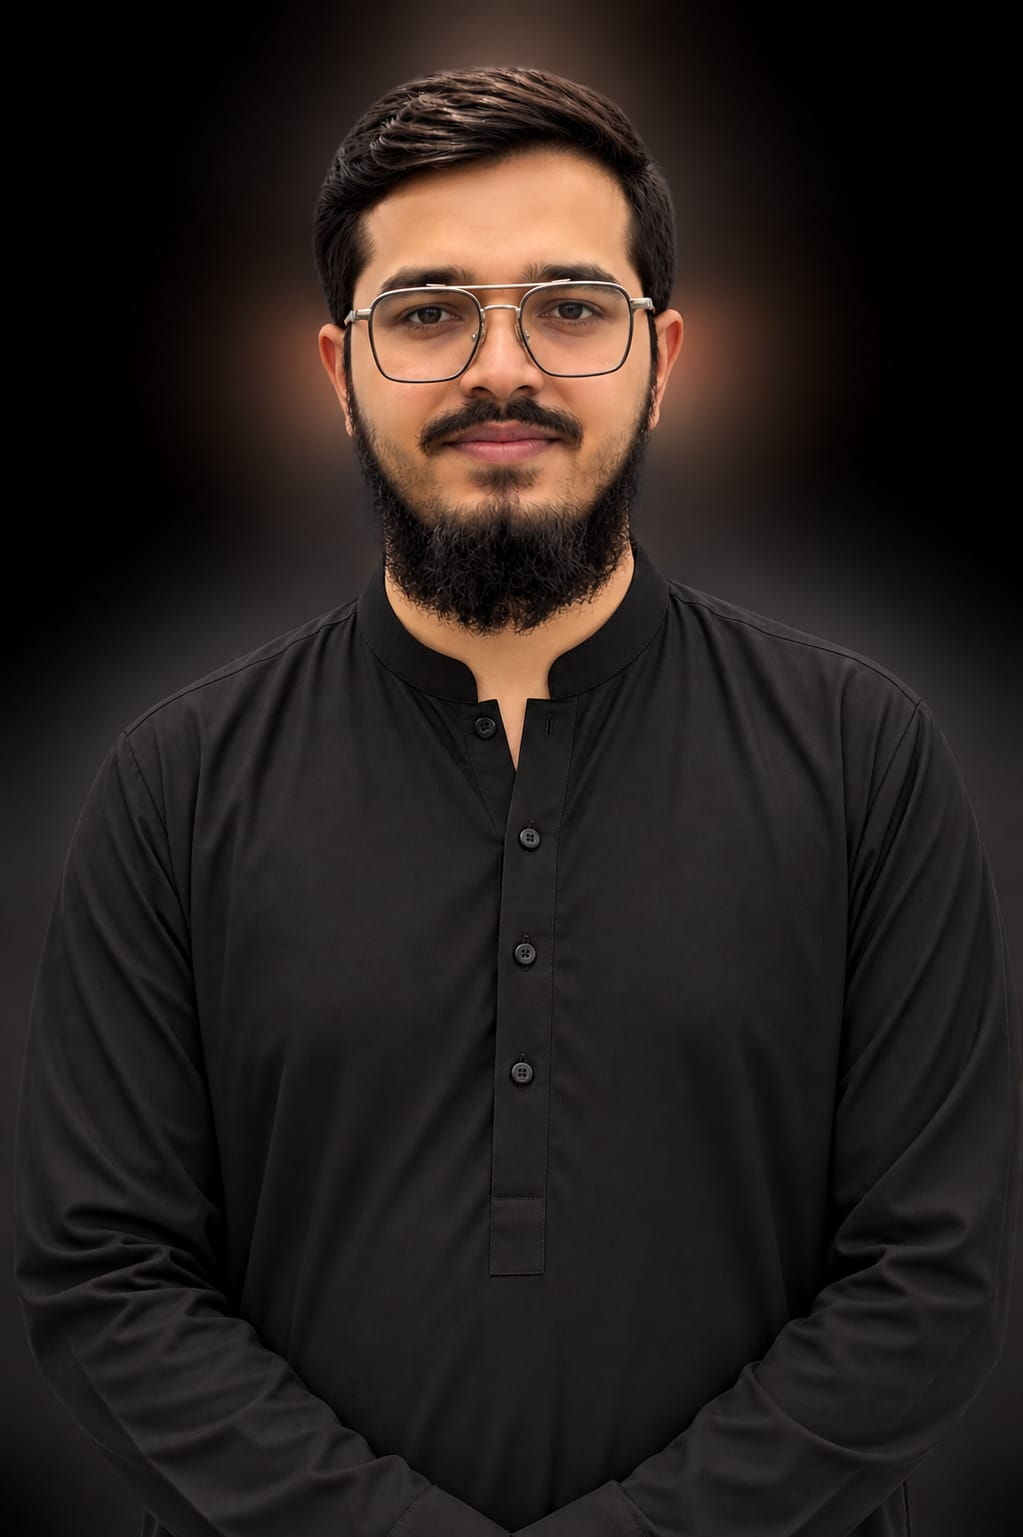
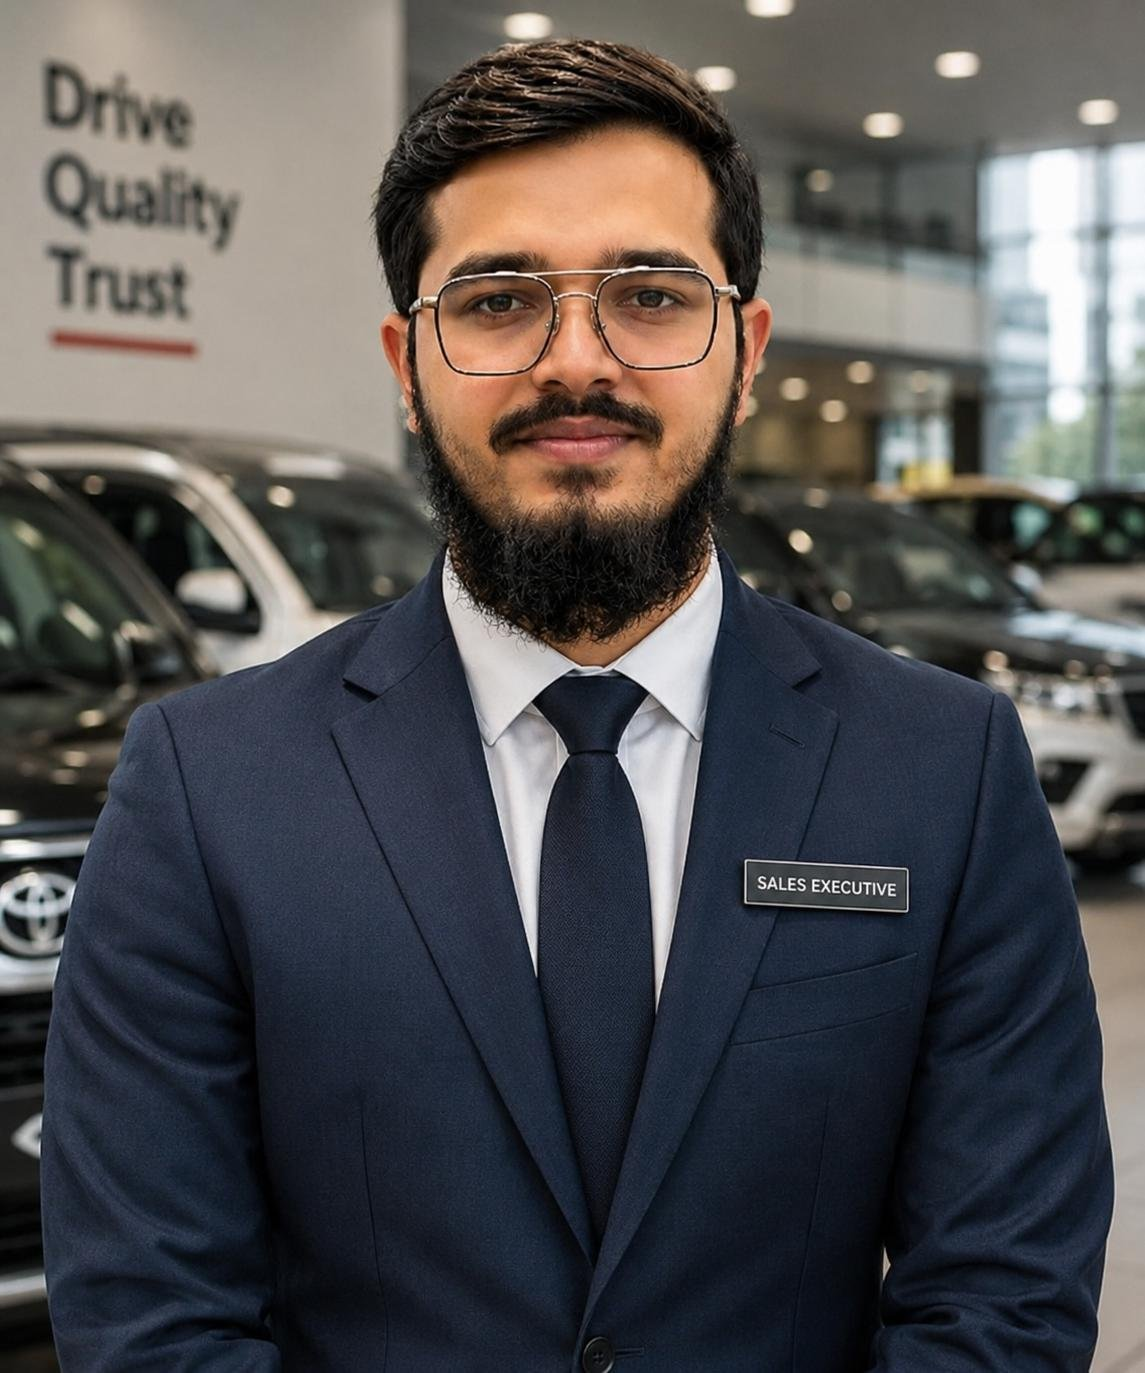
Reorder About before Cars, add vehicle carousel, WhatsApp branding, and polish
- About section now uses the new professional headshot photo
- Official WhatsApp glyph replaces the generic icon on the floating
  button, Contact panel, and each vehicle card's enquiry button
- About now appears before the Featured Vehicles section (nav updated
  to match)
- Featured Vehicles is now a swipeable/autoplaying carousel with arrow
  and dot navigation instead of a static grid
- Stats section background reworked with layered gold/steel glows and
  a top divider for better separation from neighboring sections

diff --git a/src/components/Vehicles.jsx b/src/components/Vehicles.jsx
@@ -1,23 +1,157 @@
+import { useEffect, useState } from "react";
+import { motion, useReducedMotion } from "framer-motion";
+import { ChevronLeft, ChevronRight } from "lucide-react";
 import SectionTitle from "./SectionTitle";
 import VehicleCard from "./VehicleCard";
 import { vehicles } from "../data/vehicles";
 
+function useItemsPerView() {
+  const [items, setItems] = useState(1);
+
+  useEffect(() => {
+    const mqLg = window.matchMedia("(min-width: 1024px)");
+    const mqSm = window.matchMedia("(min-width: 640px)");
+    const update = () => setItems(mqLg.matches ? 3 : mqSm.matches ? 2 : 1);
+    update();
+    mqLg.addEventListener("change", update);
+    mqSm.addEventListener("change", update);
+    return () => {
+      mqLg.removeEventListener("change", update);
+      mqSm.removeEventListener("change", update);
+    };
+  }, []);
+
+  return items;
+}
+
 export default function Vehicles() {
+  const itemsPerView = useItemsPerView();
+  const prefersReducedMotion = useReducedMotion();
+  const maxIndex = Math.max(0, vehicles.length - itemsPerView);
+  const [index, setIndex] = useState(0);
+  const [paused, setPaused] = useState(false);
+
+  useEffect(() => {
+    setIndex((i) => Math.min(i, maxIndex));
+  }, [maxIndex]);
+
+  useEffect(() => {
+    if (prefersReducedMotion || paused || maxIndex === 0) return;
+    const id = setInterval(() => {
+      setIndex((i) => (i >= maxIndex ? 0 : i + 1));
+    }, 5000);
+    return () => clearInterval(id);
+  }, [paused, maxIndex, prefersReducedMotion]);
+
+  const go = (dir) => {
+    setIndex((i) => {
+      const next = i + dir;
+      if (next < 0) return maxIndex;
+      if (next > maxIndex) return 0;
+      return next;
+    });
+  };
+
   return (
     <section id="cars" className="scroll-mt-20 bg-ink py-24 sm:py-32">
       <div className="section-container">
-        <SectionTitle
-          eyebrow="Our Inventory"
-          title="Featured Vehicles"
-          subtitle="A curated selection of our current inventory — carefully inspected and ready for their next owner."
-          light
-        />
-
-        <div className="grid grid-cols-1 gap-6 sm:grid-cols-2 lg:grid-cols-3">
-          {vehicles.map((vehicle, i) => (
-            <VehicleCard key={vehicle.id} vehicle={vehicle} index={i} />
-          ))}
+        <div className="flex flex-col gap-6 sm:flex-row sm:items-end sm:justify-between">
+          <SectionTitle
+            eyebrow="Our Inventory"
+            title="Featured Vehicles"
+            subtitle="A curated selection of our current inventory — carefully inspected and ready for their next owner."
+            light
+          />
+          {maxIndex > 0 && (
+            <div className="mb-2 hidden shrink-0 items-center gap-3 sm:flex">
+              <button
+                type="button"
+                onClick={() => go(-1)}
+                aria-label="Previous vehicle"
+                className="flex h-11 w-11 items-center justify-center rounded-full border border-white/15 text-offwhite transition-colors duration-300 hover:border-accent-light hover:text-accent-light"
+              >
+                <ChevronLeft size={20} aria-hidden="true" />
+              </button>
+              <button
+                type="button"
+                onClick={() => go(1)}
+                aria-label="Next vehicle"
+                className="flex h-11 w-11 items-center justify-center rounded-full border border-white/15 text-offwhite transition-colors duration-300 hover:border-accent-light hover:text-accent-light"
+              >
+                <ChevronRight size={20} aria-hidden="true" />
+              </button>
+            </div>
+          )}
         </div>
+
+        <div
+          className="relative mt-10 -mx-3 overflow-hidden"
+          onMouseEnter={() => setPaused(true)}
+          onMouseLeave={() => setPaused(false)}
+        >
+          <motion.div
+            className="flex cursor-grab active:cursor-grabbing"
+            drag={maxIndex > 0 ? "x" : false}
+            dragConstraints={{ left: 0, right: 0 }}
+            dragElastic={0.08}
+            onDragEnd={(_, info) => {
+              const threshold = 60;
+              if (info.offset.x < -threshold) go(1);
+              else if (info.offset.x > threshold) go(-1);
+            }}
+            animate={{ x: `-${index * (100 / itemsPerView)}%` }}
+            transition={{ duration: 0.6, ease: [0.22, 1, 0.36, 1] }}
+          >
+            {vehicles.map((vehicle, i) => (
+              <div
+                key={vehicle.id}
+                className="shrink-0 px-3"
+                style={{ width: `${100 / itemsPerView}%` }}
+              >
+                <VehicleCard vehicle={vehicle} index={i} />
+              </div>
+            ))}
+          </motion.div>
+
+          <div className="pointer-events-none absolute inset-y-0 left-0 w-8 bg-gradient-to-r from-ink to-transparent sm:w-16" aria-hidden="true" />
+          <div className="pointer-events-none absolute inset-y-0 right-0 w-8 bg-gradient-to-l from-ink to-transparent sm:w-16" aria-hidden="true" />
+        </div>
+
+        {maxIndex > 0 && (
+          <div className="mt-8 flex items-center justify-center gap-4">
+            <button
+              type="button"
+              onClick={() => go(-1)}
+              aria-label="Previous vehicle"
+              className="flex h-10 w-10 items-center justify-center rounded-full border border-white/15 text-offwhite transition-colors duration-300 hover:border-accent-light hover:text-accent-light sm:hidden"
+            >
+              <ChevronLeft size={18} aria-hidden="true" />
+            </button>
+            <div className="flex gap-2" role="tablist" aria-label="Vehicle slides">
+              {Array.from({ length: maxIndex + 1 }).map((_, i) => (
+                <button
+                  key={i}
+                  type="button"
+                  role="tab"
+                  aria-selected={i === index}
+                  onClick={() => setIndex(i)}
+                  aria-label={`Go to slide ${i + 1}`}
+                  className={`h-2 rounded-full transition-all duration-300 ${
+                    i === index ? "w-6 bg-accent-light" : "w-2 bg-white/20 hover:bg-white/40"
+                  }`}
+                />
+              ))}
+            </div>
+            <button
+              type="button"
+              onClick={() => go(1)}
+              aria-label="Next vehicle"
+              className="flex h-10 w-10 items-center justify-center rounded-full border border-white/15 text-offwhite transition-colors duration-300 hover:border-accent-light hover:text-accent-light sm:hidden"
+            >
+              <ChevronRight size={18} aria-hidden="true" />
+            </button>
+          </div>
+        )}
       </div>
     </section>
   );

diff --git a/src/components/Stats.jsx b/src/components/Stats.jsx
@@ -37,7 +37,11 @@ export default function Stats() {
   const stats = Object.values(dealer.stats);
 
   return (
-    <section className="relative overflow-hidden bg-ink py-20 sm:py-24">
+    <section className="relative overflow-hidden bg-gradient-to-b from-charcoal via-ink to-ink py-20 sm:py-24">
+      <div
+        className="pointer-events-none absolute inset-x-0 top-0 h-px bg-gradient-to-r from-transparent via-accent/50 to-transparent"
+        aria-hidden="true"
+      />
       <div
         className="pointer-events-none absolute inset-0 opacity-[0.05]"
         style={{
@@ -48,7 +52,11 @@ export default function Stats() {
         aria-hidden="true"
       />
       <div
-        className="pointer-events-none absolute left-1/2 top-1/2 h-[420px] w-[420px] -translate-x-1/2 -translate-y-1/2 rounded-full bg-accent/10 blur-[120px]"
+        className="pointer-events-none absolute -left-24 top-1/2 h-[380px] w-[380px] -translate-y-1/2 rounded-full bg-accent/15 blur-[130px]"
+        aria-hidden="true"
+      />
+      <div
+        className="pointer-events-none absolute -right-24 top-1/2 h-[380px] w-[380px] -translate-y-1/2 rounded-full bg-steel/20 blur-[130px]"
         aria-hidden="true"
       />
 
@@ -60,11 +68,12 @@ export default function Stats() {
             whileInView={{ opacity: 1, y: 0 }}
             viewport={{ once: true, amount: 0.5 }}
             transition={{ duration: 0.6, delay: i * 0.12, ease: [0.22, 1, 0.36, 1] }}
-            className="flex flex-col items-center gap-2 pt-8 text-center first:pt-0 sm:pt-0"
+            className="flex flex-col items-center gap-3 pt-8 text-center first:pt-0 sm:pt-0"
           >
-            <span className="text-5xl font-extrabold text-offwhite sm:text-6xl">
+            <span className="text-5xl font-extrabold text-offwhite drop-shadow-[0_2px_20px_rgba(212,175,55,0.15)] sm:text-6xl">
               <Counter value={stat.value} suffix={stat.suffix} />
             </span>
+            <span className="h-px w-10 bg-accent/40" aria-hidden="true" />
             <span className="text-xs font-semibold uppercase tracking-[0.25em] text-mist sm:text-sm">
               {stat.label}
             </span>

diff --git a/src/components/WhatsAppIcon.jsx b/src/components/WhatsAppIcon.jsx
@@ -1,0 +1,8 @@
+// Official WhatsApp glyph (brand mark), used wherever we link out to WhatsApp.
+export default function WhatsAppIcon(props) {
+  return (
+    <svg viewBox="0 0 32 32" fill="currentColor" {...props}>
+      <path d="M16.04 3C9.16 3 3.58 8.58 3.58 15.46c0 2.29.62 4.44 1.7 6.29L3 29l7.44-2.24a12.4 12.4 0 0 0 5.6 1.34h.01c6.88 0 12.46-5.58 12.46-12.46C28.5 8.76 22.92 3 16.04 3Zm0 22.62h-.01a10.3 10.3 0 0 1-5.25-1.44l-.38-.22-4.42 1.33 1.36-4.31-.25-.4a10.24 10.24 0 0 1-1.58-5.52c0-5.68 4.63-10.3 10.32-10.3 2.76 0 5.35 1.07 7.3 3.02a10.24 10.24 0 0 1 3.02 7.29c0 5.68-4.63 10.3-10.31 10.3Zm5.65-7.72c-.31-.15-1.82-.9-2.1-1-.28-.1-.49-.15-.69.16-.21.31-.79 1-.97 1.2-.18.21-.36.23-.66.08-.31-.16-1.3-.48-2.47-1.53-.91-.81-1.53-1.82-1.71-2.13-.18-.31-.02-.48.13-.63.14-.14.31-.36.46-.55.15-.18.21-.31.31-.52.1-.21.05-.39-.02-.55-.08-.15-.69-1.67-.95-2.28-.25-.6-.5-.52-.69-.53h-.59c-.21 0-.55.08-.83.39-.28.31-1.09 1.06-1.09 2.6 0 1.53 1.12 3.01 1.27 3.21.16.21 2.2 3.36 5.33 4.71.75.32 1.33.51 1.78.66.75.24 1.43.2 1.97.13.6-.09 1.82-.74 2.08-1.46.26-.71.26-1.32.18-1.45-.08-.13-.28-.21-.59-.36Z" />
+    </svg>
+  );
+}

diff --git a/src/components/VehicleCard.jsx b/src/components/VehicleCard.jsx
@@ -1,5 +1,5 @@
 import { motion } from "framer-motion";
-import { Cog, Fuel, Gauge, MessageCircle, Settings2 } from "lucide-react";
+import { Cog, Fuel, Gauge, Settings2 } from "lucide-react";
 import {
   vehicleInquiryMessage,
   vehicleMileageLabel,
@@ -7,6 +7,7 @@ import {
   vehicleTitle,
 } from "../data/vehicles";
 import { buildWhatsAppUrl } from "../data/whatsapp";
+import WhatsAppIcon from "./WhatsAppIcon";
 
 export default function VehicleCard({ vehicle, index }) {
   const specs = [
@@ -63,7 +64,7 @@ export default function VehicleCard({ vehicle, index }) {
           rel="noopener noreferrer"
           className="mt-auto inline-flex items-center justify-center gap-2 rounded-sm border border-white/15 bg-white/5 px-4 py-3 text-sm font-semibold uppercase tracking-wide text-offwhite transition-all duration-300 hover:border-accent-light hover:text-accent-light"
         >
-          <MessageCircle size={16} aria-hidden="true" />
+          <WhatsAppIcon className="h-4 w-4" aria-hidden="true" />
           Enquire on WhatsApp
         </a>
       </div>

diff --git a/src/components/Contact.jsx b/src/components/Contact.jsx
@@ -1,11 +1,12 @@
 import { useState } from "react";
 import { AnimatePresence, motion } from "framer-motion";
-import { AlertCircle, CheckCircle2, Mail, MapPin, MessageCircle, Send } from "lucide-react";
+import { AlertCircle, CheckCircle2, Mail, MapPin, Send } from "lucide-react";
 import SectionTitle from "./SectionTitle";
 import { dealer } from "../data/dealer";
 import { buildWhatsAppUrl } from "../data/whatsapp";
 import { submitFormData } from "../data/forms";
 import { FacebookIcon, InstagramIcon } from "./SocialIcons";
+import WhatsAppIcon from "./WhatsAppIcon";
 
 const initialForm = {
   name: "",
@@ -27,7 +28,7 @@ function validate(form) {
 
 const contactDetails = [
   {
-    icon: MessageCircle,
+    icon: WhatsAppIcon,
     label: "WhatsApp",
     value: dealer.phone,
     href: buildWhatsAppUrl("Hello Zayn Khan, I would like to enquire about a vehicle."),

diff --git a/src/components/WhatsAppButton.jsx b/src/components/WhatsAppButton.jsx
@@ -1,5 +1,5 @@
-import { MessageCircle } from "lucide-react";
 import { buildWhatsAppUrl } from "../data/whatsapp";
+import WhatsAppIcon from "./WhatsAppIcon";
 
 const DEFAULT_MESSAGE =
   "Hello Zayn Khan, I would like to enquire about a vehicle.";
@@ -18,7 +18,7 @@ export default function WhatsAppButton() {
       </span>
       <span className="relative flex h-14 w-14 items-center justify-center rounded-full bg-[#25D366] text-white shadow-[0_10px_30px_-8px_rgba(37,211,102,0.7)] transition-transform duration-300 group-hover:scale-105">
         <span className="absolute inset-0 -z-10 animate-pulse-slow rounded-full bg-[#25D366]/50" aria-hidden="true" />
-        <MessageCircle size={26} fill="currentColor" strokeWidth={0} aria-hidden="true" />
+        <WhatsAppIcon className="h-7 w-7" aria-hidden="true" />
       </span>
     </a>
   );

diff --git a/src/App.jsx b/src/App.jsx
@@ -1,7 +1,7 @@
 import Navbar from "./components/Navbar";
 import Hero from "./components/Hero";
-import Vehicles from "./components/Vehicles";
 import About from "./components/About";
+import Vehicles from "./components/Vehicles";
 import Stats from "./components/Stats";
 import Experience from "./components/Experience";
 import CustomerStories from "./components/CustomerStories";
@@ -16,8 +16,8 @@ function App() {
       <Navbar />
       <main id="main-content">
         <Hero />
-        <Vehicles />
         <About />
+        <Vehicles />
         <Stats />
         <Experience />
         <CustomerStories />

diff --git a/src/data/dealer.js b/src/data/dealer.js
@@ -31,8 +31,8 @@ export const dealer = {
 
   nav: [
     { label: "Home", href: "#home" },
-    { label: "Cars", href: "#cars" },
     { label: "About", href: "#about" },
+    { label: "Cars", href: "#cars" },
     { label: "Experience", href: "#experience" },
     { label: "Stories", href: "#stories" },
     { label: "Feedback", href: "#feedback" },

diff --git a/README.md b/README.md
@@ -47,7 +47,9 @@ The hero section uses `public/images/hero.jpg` and the About section uses `publi
 
 ## Featured Vehicles
 
-The "Featured Vehicles" section (right after the Hero) renders a card per entry in `src/data/vehicles.js` — add, remove, or edit cars there without touching any component code. Each entry needs a photo in `public/images/cars/`; resize new photos so the longer edge is ~1400px and compress to JPEG (quality ~80) to keep page weight down before adding them. Leave `price` as `null` to show "Contact for Price," or set it to a number/string to display a real price. Each card's WhatsApp button pre-fills an inquiry naming that specific vehicle.
+The "Featured Vehicles" section (after About) renders a swipeable carousel — one card per entry in `src/data/vehicles.js` — add, remove, or edit cars there without touching any component code. Each entry needs a photo in `public/images/cars/`; resize new photos so the longer edge is ~1400px and compress to JPEG (quality ~80) to keep page weight down before adding them. Leave `price` as `null` to show "Contact for Price," or set it to a number/string to display a real price. Each card's WhatsApp button pre-fills an inquiry naming that specific vehicle.
+
+The carousel shows 1/2/3 cards at a time depending on viewport, autoplays every 5s (pausing on hover and respecting reduced-motion), and supports arrow buttons, dot navigation, and drag/swipe.
 
 ## Form submissions
 
@@ -63,7 +65,7 @@ Requests are sent with `Content-Type: text/plain` rather than `application/json`
 
 ## WhatsApp integration
 
-The floating WhatsApp button opens `https://wa.me/<number>` with a pre-filled message. The number is set once in `src/data/dealer.js` (`whatsapp` field).
+The floating WhatsApp button, the Contact section's info panel, and each vehicle card's enquiry button all open `https://wa.me/<number>` with a pre-filled message, using the official WhatsApp glyph (`src/components/WhatsAppIcon.jsx`). The number is set once in `src/data/dealer.js` (`whatsapp` field).
 
 ## SEO
 
